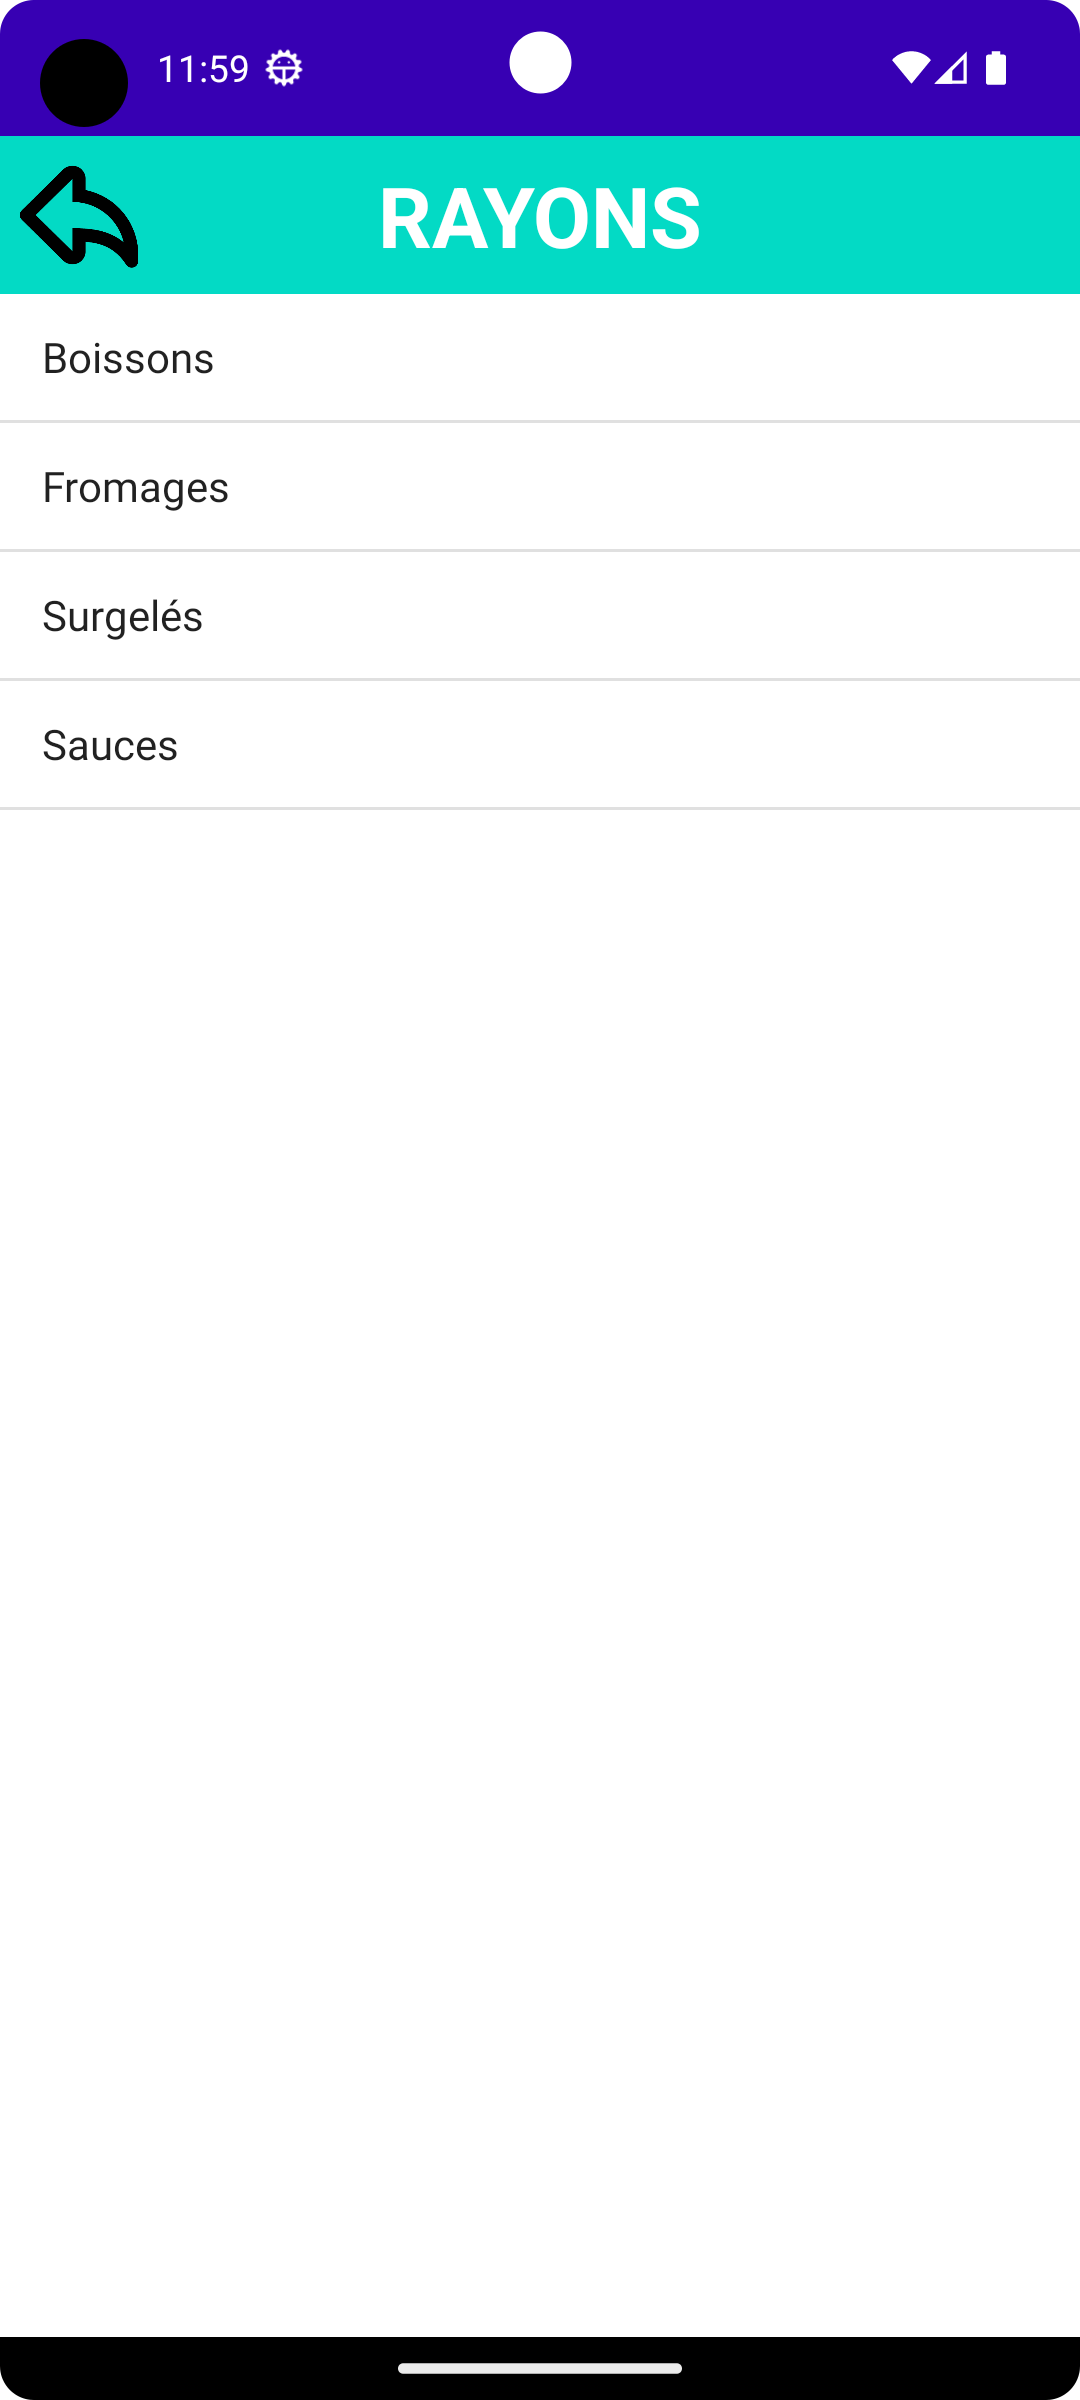
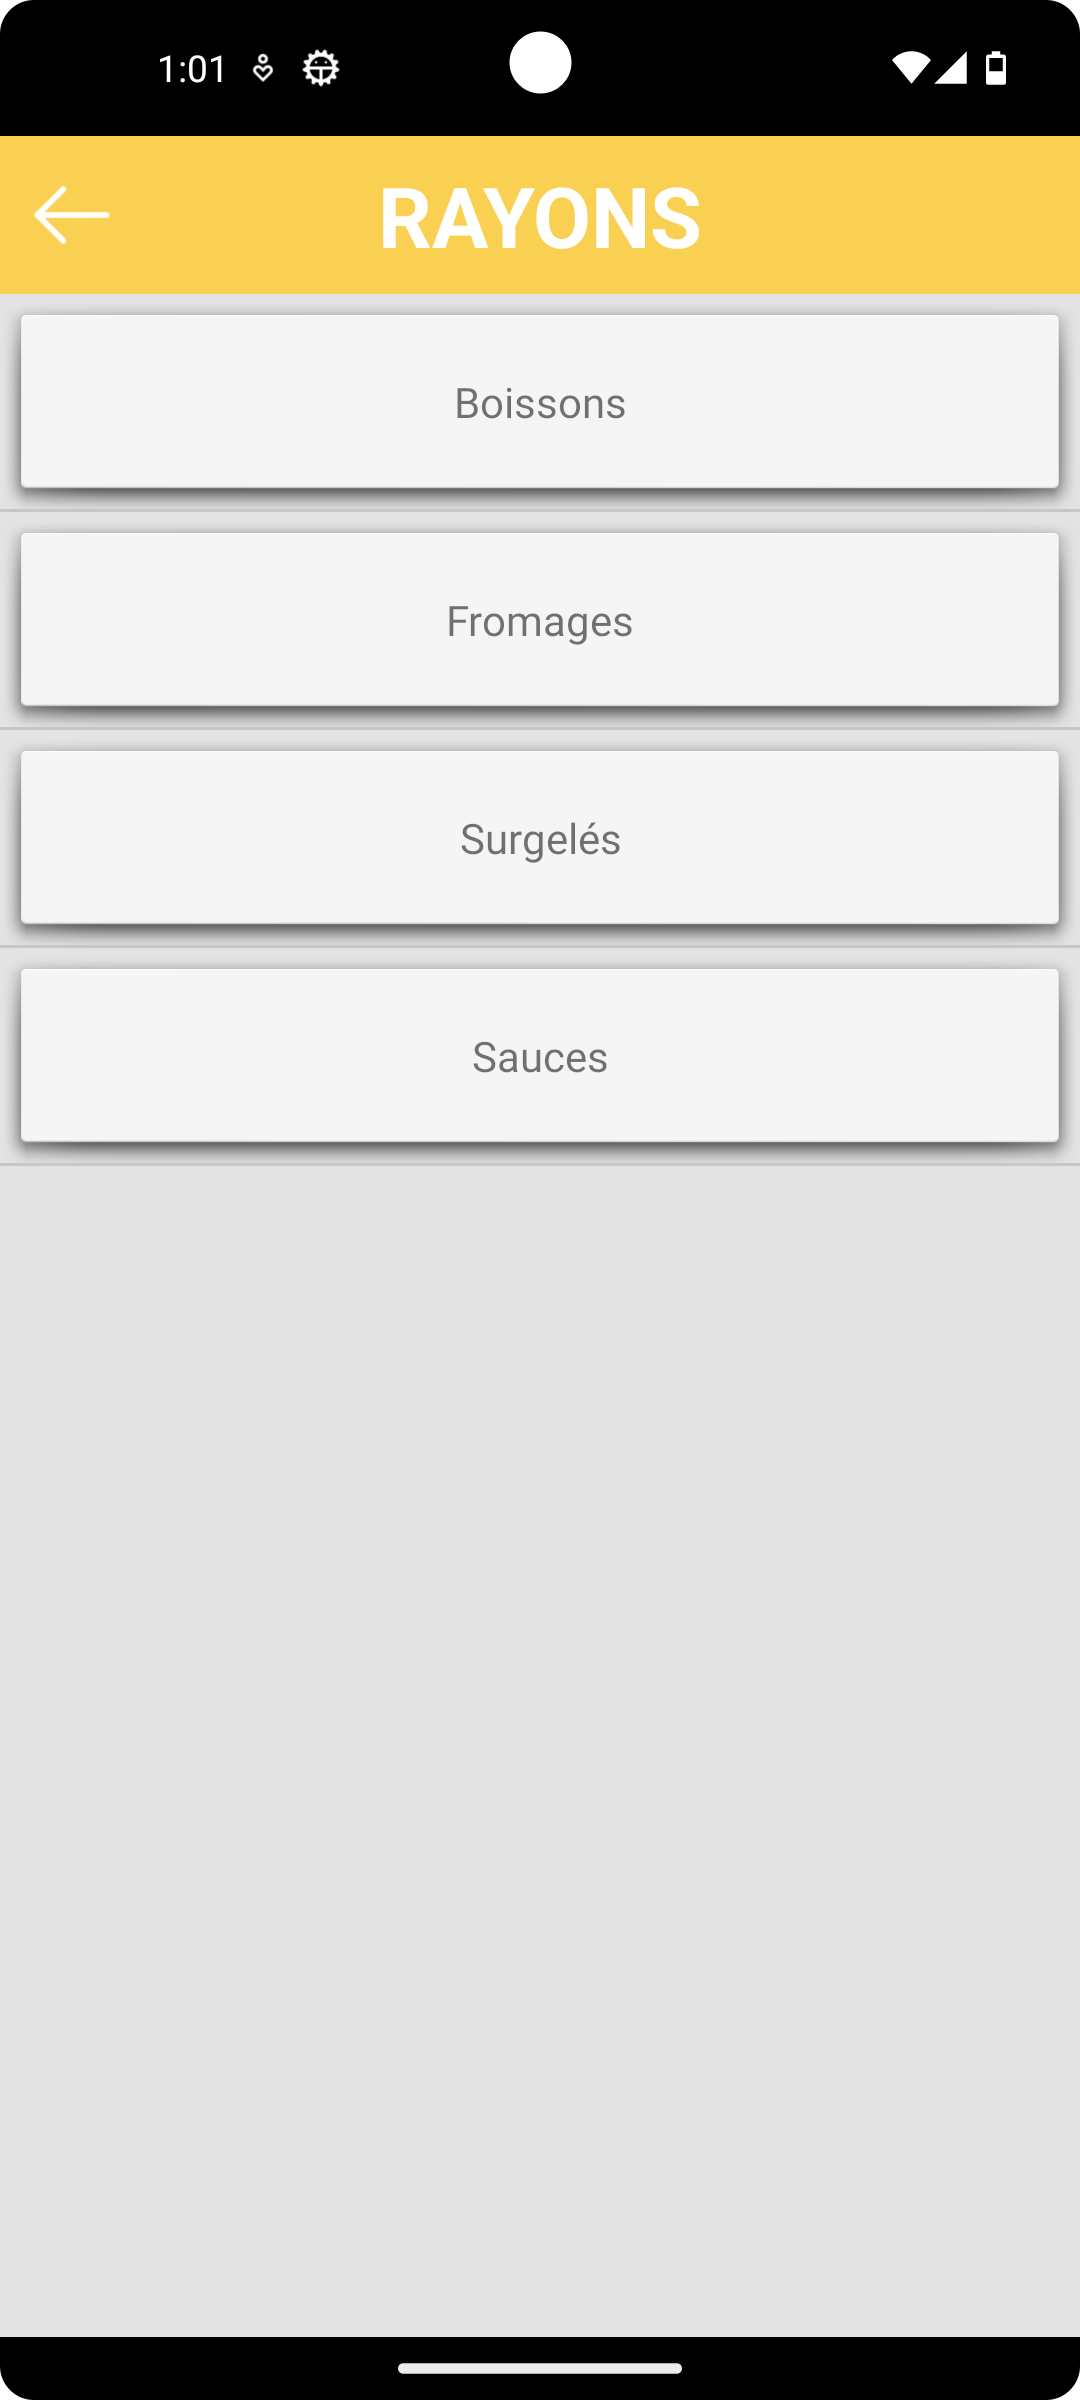
:memo: Modification des screens avec la nouvelle DA

diff --git a/README.md b/README.md
@@ -50,10 +50,11 @@
 
 <img width="50%" src="https://user-images.githubusercontent.com/93679283/224399070-c614a991-4d30-4007-89f0-e34d37e53c09.png">
 
-## 5. Categories 
+## 5. Categories List
 
-<img width="50%" src="https://user-images.githubusercontent.com/93679283/224541421-06a9fddf-2cec-4624-8c94-6b97ea171eff.png">
+<img width="50%" src="https://raw.githubusercontent.com/Sangmin-SHIM/android_epsi_g2_first_project/main/res/CategoriesActivity_ListRayons.png">
 
 ## 6. Products List
 
-<img width="50%" src="https://user-images.githubusercontent.com/93679283/224541475-f4e4e059-2422-4923-a8e1-c060ef3e8af9.png">
+<img width="50%" src="https://raw.githubusercontent.com/Sangmin-SHIM/android_epsi_g2_first_project/main/res/CategoriesActivity_ListProducts.png">
+
